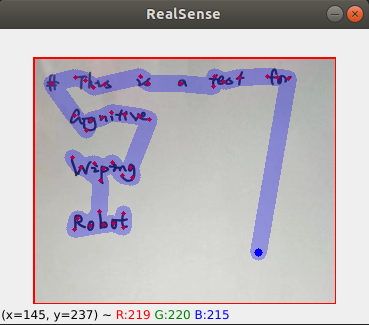
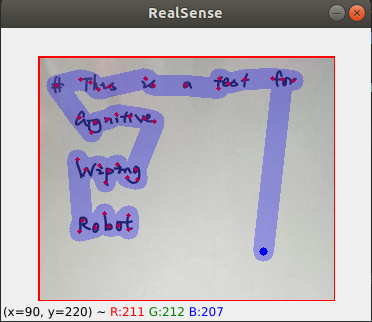
update images

diff --git a/image_viewer.py b/image_viewer.py
@@ -159,7 +159,7 @@ class Cognition():
             # # cv2.imshow('RealSense', red_image)
             # cv2.waitKey(0)
 
-            path, travelled_dst = motion_planner.ant_colony()
+            path, travelled_dst = motion_planner.nearst_neighbor_planning()
 
             print("path planned")
 
@@ -169,7 +169,7 @@ class Cognition():
                 s = path[k]
                 e = path[k + 1]
                 mask_image_2 = cv2.line(mask_image_2, (s[0], s[1]), (e[0], e[1]), color=(255, 0, 0),
-                                        thickness=self.radius + 5)
+                                        thickness=2*self.radius)
 
             alpha = 0.3
             cover_img = cv2.addWeighted(mask_image_2, alpha, self.img, 1 - alpha, 0)
@@ -199,6 +199,6 @@ if __name__ == "__main__":
     cv2.rectangle(img=color_image, pt1=(x, y), pt2=(x + w, y + h), color=(0, 0, 255), thickness=2)
     color_image = color_image[y:y + h, x:x + w]
 
-    viewer = Cognition(image=color_image, radius=5)
+    viewer = Cognition(image=color_image, radius=10)
 
     viewer.run()

diff --git a/README.md b/README.md
@@ -30,7 +30,7 @@ Option 1: Bounding rectangles can be used instead of contours.
 
 However, the size of rectangular kernel needs to be set manually to get a suitable bounding rectangle.
 
-### Covering SP: 
+### Covering SP
 The wiping task can be formed as a [Covering Traveling Salesman Problem](https://www.scirp.org/journal/paperinformation.aspx?paperid=77781). To guarantee that the cleaner will pass each pixel of stains, each point on contours ```c``` is checked if it lies within an e-neighborhood of current nodes, where the value of e depends on the size of the tool (e.g. radius of the brush) used to accomplish the task. If not, ```c```  is added to the node_list.
 
 [<img src="img/nodes_words.png" width="400px"/>](nodes_words.png)
